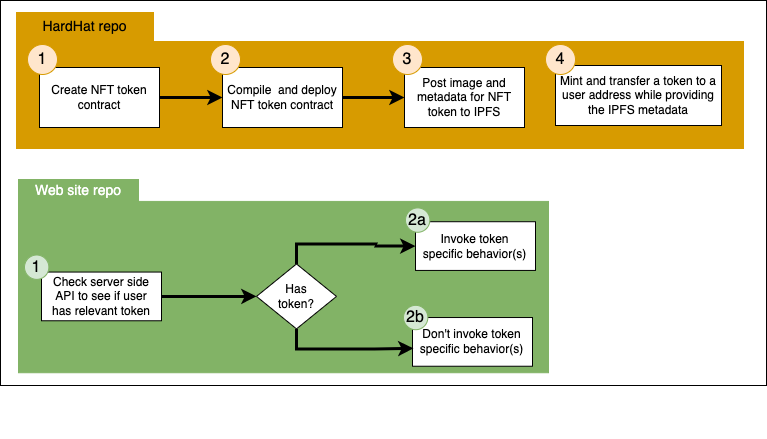
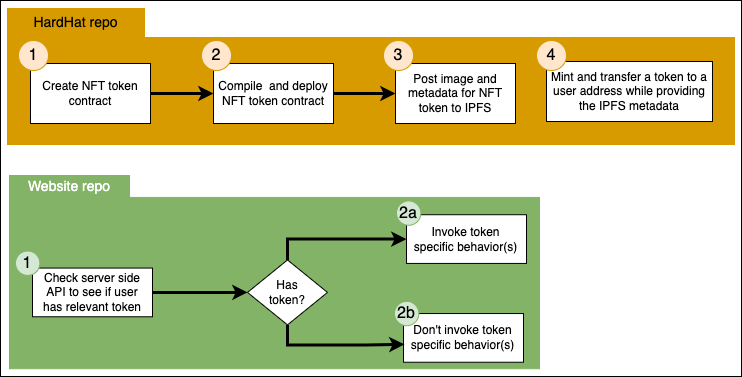
adding graphics

diff --git a/README.md b/README.md
@@ -19,4 +19,6 @@ The general workflow is shown in the figure below.
 
 Server side admin code interacts with the smart contract on the blockchain to generate the NFT that is used in the token gating process. The token is then transferred to the user using the admin web page running under the project's web server.  Once the NFT is transferred to the user, that user will have permissions granted by server side logic.
 
-[MORE TO COME]
+The way the website works is that the user logs in using MetaMask as the authentication mechanism. Behind the scenes, the web server checks the smart contract on the EVM compatible blockchain, asking the contract if the user (by address) was issued an NFT. (The smart contract has custom logic that keeps track of the user addresses to which its NFTs have been assigned). If the user has the NFT, that fact is reported to the calling web page and the web page executes a behavior tha is special to the given owner of the NFT. (See the figure below.)
+
+![General Workflow](./errata/webserver-01.png)
